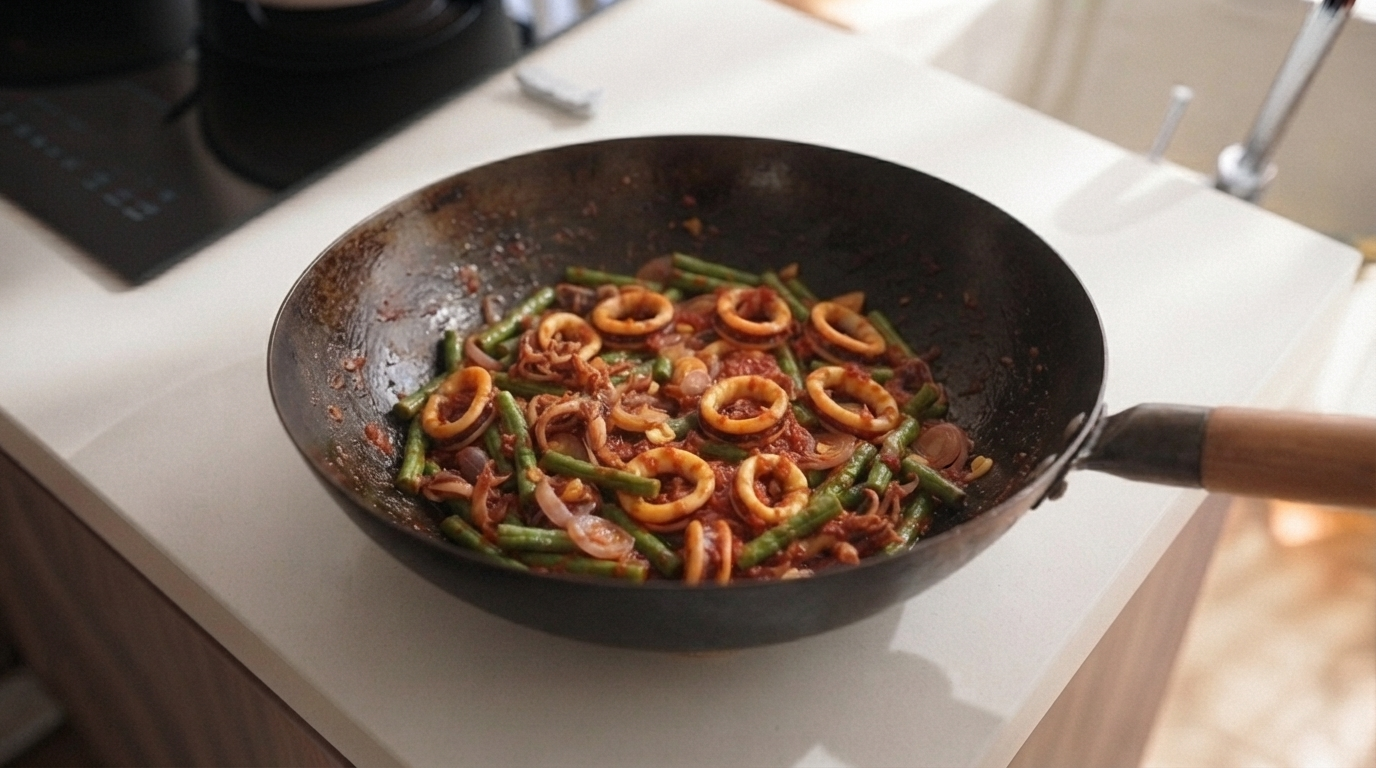
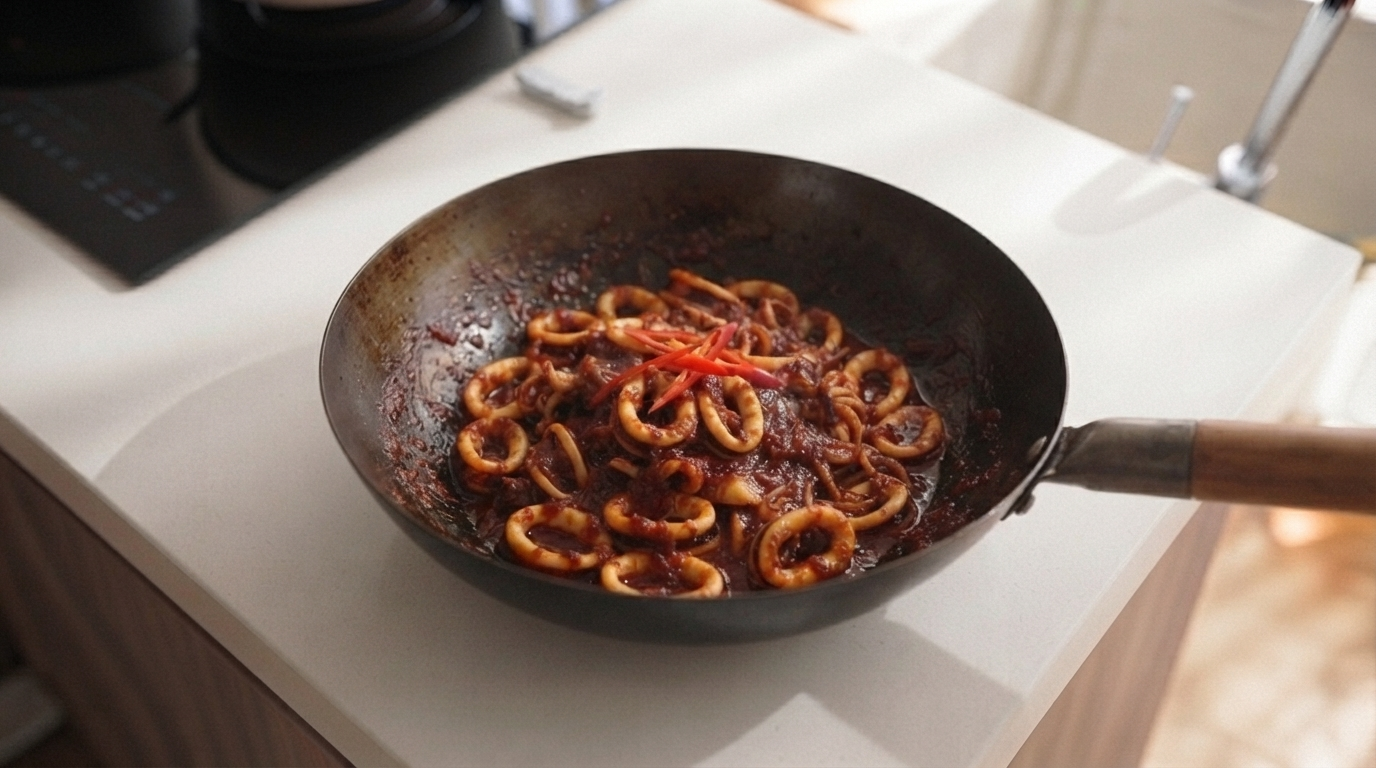
updat ephtoos

diff --git a/index.html b/index.html
@@ -837,7 +837,7 @@ button.ps-add.in-basket em{color:var(--muted)}
   .gcell{border:none;padding:0;min-height:0;margin-top:4px}
 }
 </style></head><body>
-<header><h1>DINNER&nbsp;HOW? <span style="color:var(--cool)">&middot; flow</span> <span style="color:var(--muted);font-size:11px;font-family:'Space Mono',monospace;letter-spacing:.05em">v4.06</span></h1><a href="index_old.html">&larr; back to the composer</a></header>
+<header><h1>DINNER&nbsp;HOW? <span style="color:var(--cool)">&middot; flow</span> <span style="color:var(--muted);font-size:11px;font-family:'Space Mono',monospace;letter-spacing:.05em">v4.07</span></h1><a href="index_old.html">&larr; back to the composer</a></header>
 <div id="minimap">
   <div class="mm-steps">
     <button class="mm-step" data-target="col-pantry"><span class="mm-n">1</span><span class="mm-l">Pantry</span></button>
@@ -4943,7 +4943,9 @@ function renderBasketSchedule(plan){
   const sug=mealGapSuggestions();
   if(sug.length){
     const o=document.createElement("div"); o.className="pot-sug";
-    o.innerHTML="<div class=\"ps-lab\">Would round the meal out &mdash; tap to add</div>"+
+    const HEAD={gap:"Worth adding", balance:"To balance the table",
+                variety:"To vary the table", extra:"To make it generous"};
+    o.innerHTML="<div class=\"ps-lab\">"+(HEAD[sug[0].tag]||"Would round the meal out")+" &mdash; tap to add</div>"+
       "<div class=\"ps-row\">"+sug.map(s=>suggestChip(s.id, REF)).join("")+"</div>"+
       "<div class=\"ps-note\">"+sug[0].why+"</div>";
     wrap.appendChild(o);
@@ -4960,26 +4962,71 @@ function mealGapSuggestions(){
   const inMeal=new Set();
   FLOW.basket.forEach(d=>(d.buy||[]).forEach(b=>inMeal.add(b.id)));
   [...FLOW.active].forEach(id=>inMeal.add(id));
-  const has=cat=>[...inMeal].some(id=>((R.byId[id]||{}).category)===cat);
+  const ing=id=>R.byId[id]||{};
+  const has=cat=>[...inMeal].some(id=>ing(id).category===cat);
   const hasGreen=[...inMeal].some(id=>typeof LEAFY_GREENS!=="undefined" && LEAFY_GREENS.has(id));
   const methods=new Set(FLOW.basket.map(d=>d.method));
-  const out=[];
-  const pick=(list,why)=>{
-    const ok=(R.rankPartners?R.rankPartners(list):list).filter(x=>R.byId[x] && !inMeal.has(x));
-    if(ok.length) out.push({id:ok[0], why:why});
+
+  // classify each protein in the meal so we can spot a one-note table
+  const proteinKind=id=>{
+    if(/chicken|duck/.test(id)) return "poultry";
+    if(/beef|pork|mutton|lamb|lap_cheong|char_siu|bak_kwa/.test(id)) return "red meat";
+    if(/prawn|squid|clam|fish|crab|scallop|oyster|cockle|mussel|sotong/.test(id)) return "seafood";
+    if(/tofu|tau|tempeh/.test(id)) return "beancurd";
+    if(/egg/.test(id)) return "egg";
+    return null;
   };
-  if(!hasGreen) pick(["bok_choy","kailan","chye_sim","kangkong","spinach"],
-    "There\u2019s no green on the table \u2014 one simple vegetable balances the whole meal.");
+  const kindsInMeal=new Set([...inMeal].map(proteinKind).filter(Boolean));
+  const richMethods=FLOW.basket.filter(d=>d.method==="stirfry"||d.method==="onepot").length;
+  const lightMethods=FLOW.basket.filter(d=>d.method==="steam").length;
+  const dishCount=FLOW.basket.length;
+
+  const out=[];
+  const seen=new Set();
+  const add=(list, why, tag)=>{
+    const ok=(R.rankPartners?R.rankPartners(list):list)
+      .filter(x=>R.byId[x] && !inMeal.has(x) && !seen.has(x));
+    if(ok.length){ out.push({id:ok[0], why, tag}); seen.add(ok[0]); }
+  };
+
+  /* ---- 1. GAPS: something the meal is simply missing (kept from before) ---- */
+  if(!hasGreen) add(["bok_choy","kailan","chye_sim","kangkong","spinach"],
+    "There\u2019s no green on the table \u2014 one simple vegetable balances the whole meal.", "gap");
   if(!has("starches") && !methods.has("ricebowl") && !methods.has("noodles"))
-    pick(["rice","bee_hoon","noodles"], "Nothing to eat it with yet \u2014 a starch pulls the meal together.");
-  if(FLOW.basket.length>=2 && !methods.has("onepot"))
-    pick(["napa_cabbage","daikon","winter_melon","tomato"],
-      "A light soup would give the table something to drink alongside the richer dishes.");
-  if(!has("proteins")) pick(["egg","tofu","chicken_thigh"],
-    "There\u2019s no protein yet \u2014 even an egg or some tofu would anchor it.");
+    add(["rice","bee_hoon","noodles"], "Nothing to eat it with yet \u2014 a starch pulls the meal together.", "gap");
+  if(!has("proteins")) add(["egg","tofu","chicken_thigh"],
+    "There\u2019s no protein yet \u2014 even an egg or some tofu would anchor it.", "gap");
+
+  /* ---- 2. BALANCE: the meal leans one way ---- */
+  // all rich/fried and nothing fresh — a steamed or raw-crunch item lightens it
+  if(richMethods>=2 && lightMethods===0)
+    add(["cucumber","tomato","napa_cabbage","beansprouts","lettuce"],
+      "The table is all rich, wok-fried dishes \u2014 something fresh and cool cuts through it.", "balance");
+  // two or more dishes and no soup — a soup to drink alongside
+  if(dishCount>=2 && !methods.has("onepot"))
+    add(["napa_cabbage","daikon","winter_melon","watercress"],
+      "A light soup would give the table something to drink alongside.", "balance");
+
+  /* ---- 3. VARIETY: diversify the protein, even when the meal is 'complete' ---- */
+  // everything is the same kind of protein — suggest a different kind
+  if(has("proteins") && kindsInMeal.size===1){
+    const only=[...kindsInMeal][0];
+    if(only!=="seafood") add(["prawn","fish_slices","squid","clams"],
+      "Every dish is "+only+" \u2014 a seafood dish would vary the table.", "variety");
+    else if(only==="seafood") add(["chicken_thigh","tofu","egg"],
+      "It\u2019s all seafood \u2014 a meat or tofu dish would round it out.", "variety");
+    else if(only!=="beancurd") add(["tofu","tau_kee","tempeh"],
+      "A tofu dish would add something lighter next to the "+only+".", "variety");
+  }
+
+  /* ---- 4. a gentle nudge even for a well-formed meal ---- */
+  // a complete, varied meal still enjoys one more vegetable for the table
+  if(!out.length && dishCount>=1)
+    add(["broccoli","cauliflower","long_beans","kailan","eggplant","okra"],
+      "This is a solid meal \u2014 an extra vegetable dish would make it generous.", "extra");
+
   return out.slice(0,3);
 }
-
 function openBasket(){
   closeBasket();
   const buy=basketBuyList();
